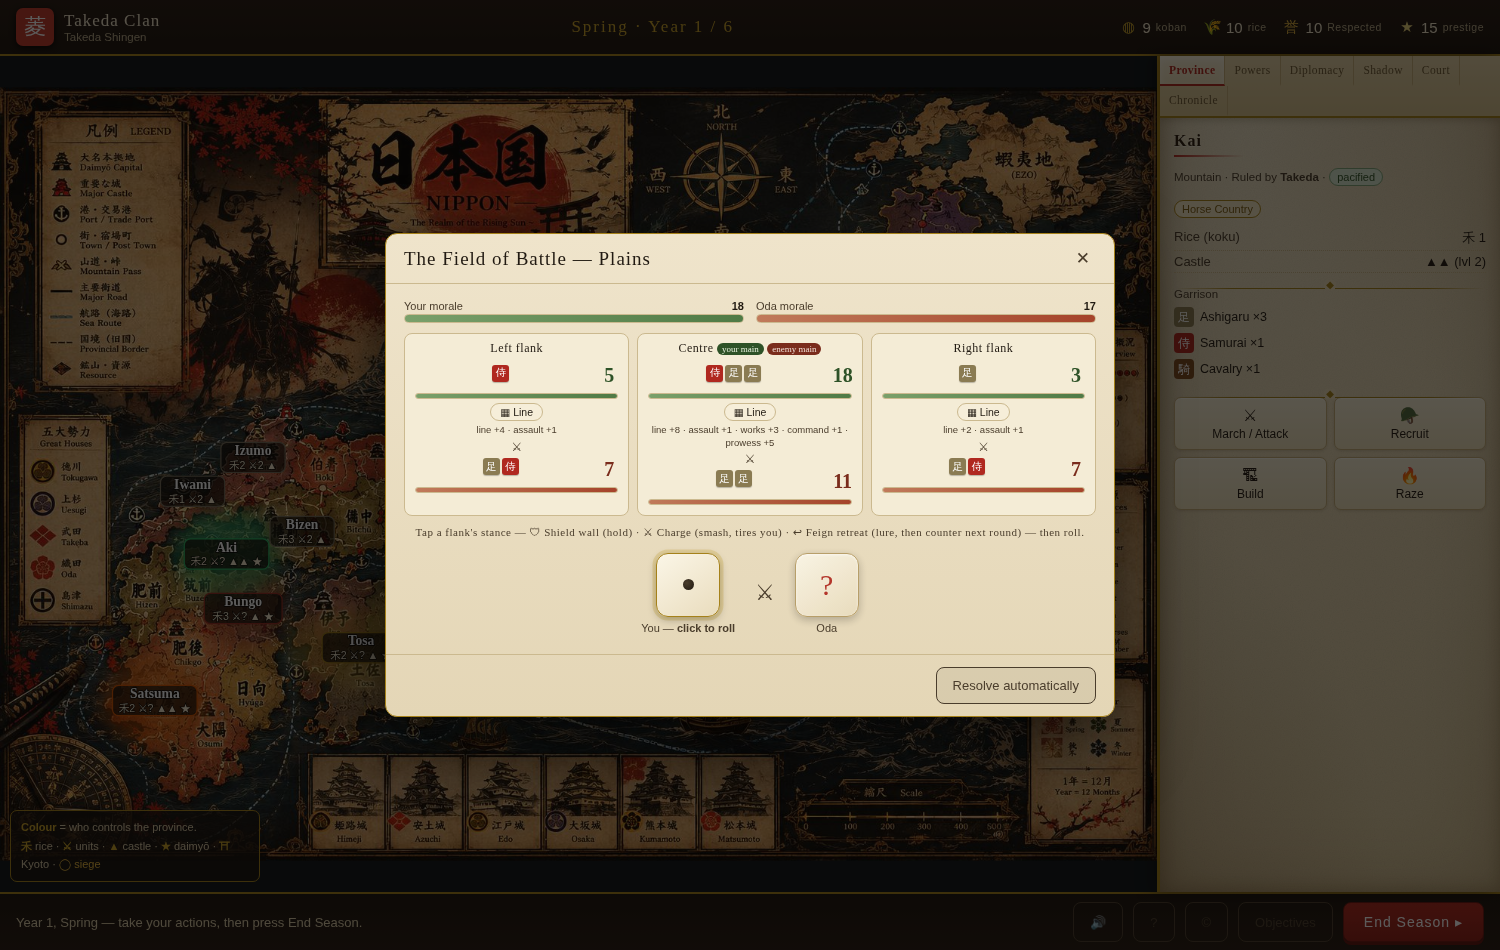
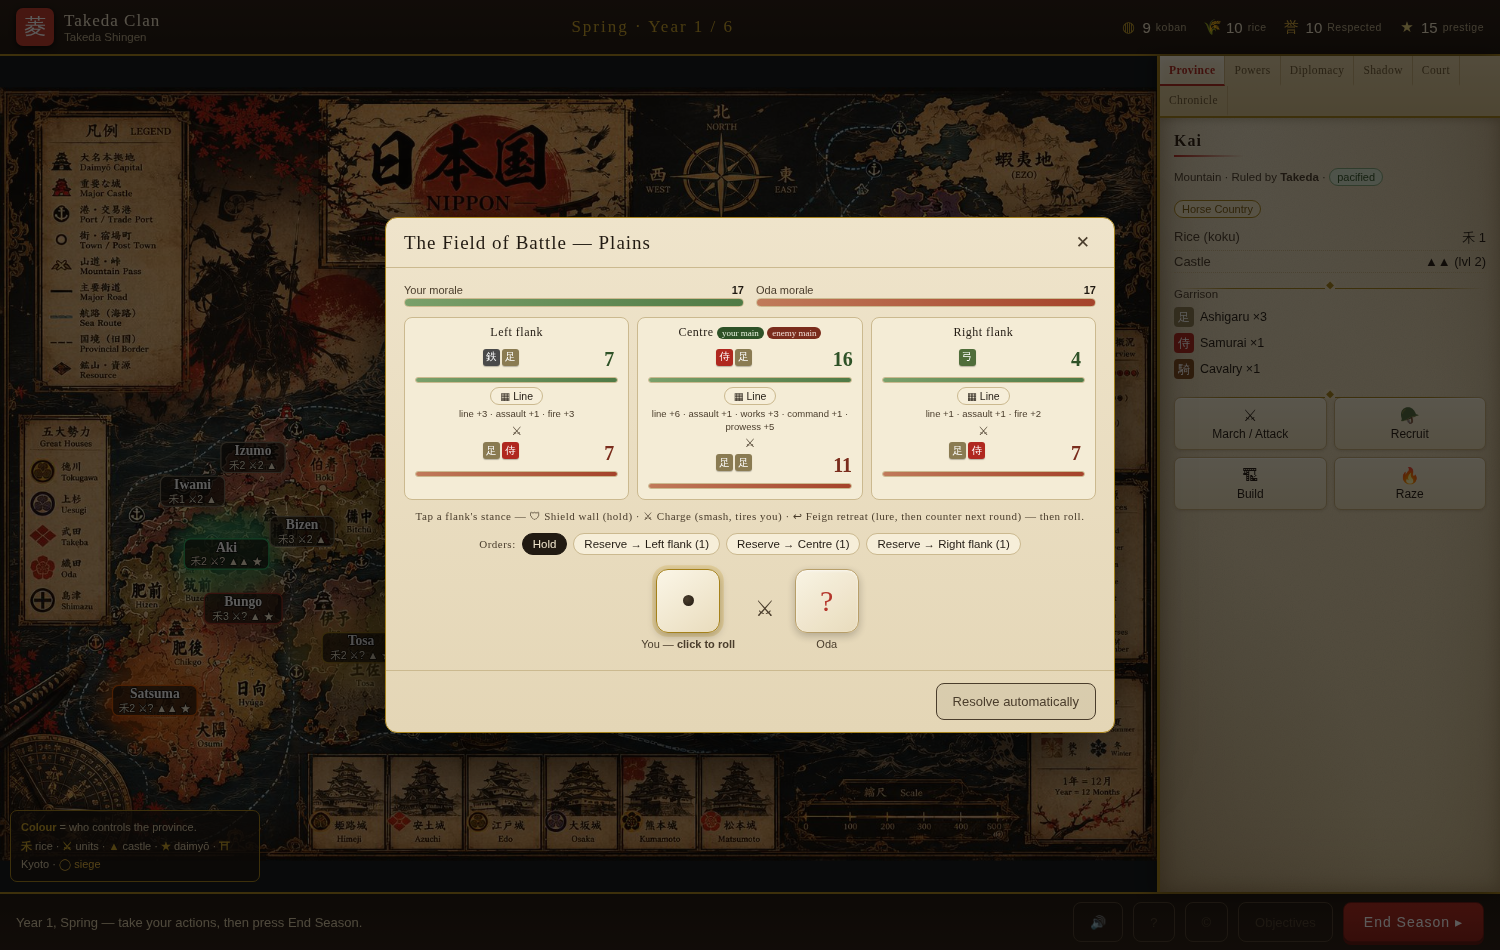
Give each unit a distinct battlefield effect; gunmen fire real volleys
Units are no longer just a strength number — each type does visible work:
- Teppō (gunmen): fire a VOLLEY on dry odd rounds that shakes the enemy flank's
  Nerve (−2 each, +1 for the Teppō clan) and a heavy volley (2+ guns) can fell a
  man outright. Rain silences them.
- Archers: loose arrows every round, a lighter nerve volley (−1 per two bows).
- Samurai: steady the ranks — a flank with samurai loses less Nerve.
- Cavalry: pursue — when a flank routs and you have horse there, extra morale
  damage runs the fugitives down.
- Ashigaru: the mass of the line; Siege: cumbersome afield, deadly at a wall.
The battle log now calls out each volley ("🔫 your Teppō volley crashes in…").

Balance held (even ~36% att / strong 100% / weak 0%); teppō make attackers pay.
Verified: 5 volley mechanics unit-tested, full regression green (359/359, 40-game
stress crash-free, nerve/v2/itest), battle plays clean in-browser, no JS errors.

Claude-Session: https://claude.ai/code/session_01TGTkTHuf1gxX1YhXkXdsoi

Changed region(s): [[0.2453, 0.2137, 0.7667, 0.7021], [0.2453, 0.7021, 0.7667, 0.7937], [0.5213, 0.6411, 0.5827, 0.6716]]

diff --git a/js/battle.js b/js/battle.js
@@ -295,6 +295,7 @@ SR.resolveRound = function (B, dice) {
     const decidedByDice = flip || a.ss === d.ss;  // roll broke a tie or flipped the result
     const loserSteady = (loseSide === "att" ? a.steady : d.steady) || 0;   // redoubt
     const loseUnits = SR.secUnits(B, loseSide, sec), winUnits = SR.secUnits(B, winSide, sec);
+    const loseSam = SR.countType(loseUnits, "samurai") > 0 ? 1 : 0;        // samurai steady the ranks
     let loseCas = Math.min(Math.floor(margin / 4), loseUnits.length);
     if (B.deploy[loseSide]["p" + sec] === "Deep") loseCas = Math.max(0, loseCas - 1);
     const winCas = Math.min(Math.floor(margin / 8), 1, Math.max(0, winUnits.length - 1));
@@ -306,33 +307,56 @@ SR.resolveRound = function (B, dice) {
     if (margin > 0) B.morale[loseSide] -= mLoss;
     B.fatigue.att[sec]++; B.fatigue.def[sec]++;
 
-    // ---- 1066 Nerve: the losing flank's nerve is shaken; break it and it routs ----
+    // ---- 1066 Nerve: the losing flank's nerve is shaken ----
     const loseStance = B.stance[loseSide][sec], winStance = B.stance[winSide][sec];
     let nLoss = Math.min(margin, 6);
     if (loseStance === "shieldwall") nLoss = Math.max(0, nLoss - 2);   // the wall holds firm
-    nLoss = Math.max(0, nLoss - loserSteady);
+    nLoss = Math.max(0, nLoss - loserSteady - loseSam);               // samurai + redoubt steady it
     let feinted = false;
-    if (loseStance === "feign") { nLoss = Math.min(nLoss, 1); pendingFeigns.push({ side: loseSide, sec }); feinted = true; }  // give ground by design, spring next round
+    if (loseStance === "feign") { nLoss = Math.min(nLoss, 1); pendingFeigns.push({ side: loseSide, sec }); feinted = true; }  // give ground by design
     if (margin > 0) B.nerve[loseSide][sec] = Math.max(0, B.nerve[loseSide][sec] - nLoss);
     if (winStance === "charge") B.nerve[winSide][sec] = Math.max(0, B.nerve[winSide][sec] - 1);  // charging is exhausting
     if (loseStance === "charge") B.nerve[loseSide][sec] = Math.max(0, B.nerve[loseSide][sec] - 1);
 
-    let flankRout = false;
-    if (B.nerve[loseSide][sec] <= 0 && SR.secUnits(B, loseSide, sec).length) {
-      flankRout = true; B.flankRouted[loseSide][sec] = true;
-      SR.removeSecCas(B, loseSide, sec, SR.secUnits(B, loseSide, sec).length);  // the flank flees the field
-      B.morale[loseSide] -= 4;
-    }
+    // ---- ranged volleys: gunmen & archers do real work beyond the melee line ----
+    const volley = (fk) => {
+      const u = SR.secUnits(B, fk, sec);
+      const teppo = (!B.wet && B.round % 2 === 1) ? u.filter(x => x.type === "teppo").length : 0;
+      const arch = u.filter(x => x.type === "archers").length;
+      let n = teppo * 2 + Math.floor(arch / 2);
+      if (teppo && B.side[fk].trait === "Teppō") n += 1;              // the gun clan reloads faster
+      return { n, teppo, arch };
+    };
+    const vol = { att: volley("att"), def: volley("def") };
+    ["att", "def"].forEach(fk => {
+      const foe = fk === "att" ? "def" : "att";
+      if (vol[fk].n) B.nerve[foe][sec] = Math.max(0, B.nerve[foe][sec] - vol[fk].n);   // fire shakes their nerve
+      if (vol[fk].teppo >= 2 && SR.secUnits(B, foe, sec).length && SR.chance(0.5)) SR.removeSecCas(B, foe, sec, 1);  // a heavy volley fells a man
+    });
+
+    // ---- flank rout: a flank whose Nerve breaks flees; cavalry pursue the runners ----
+    let flankRout = false, routedSide = null;
+    ["att", "def"].forEach(fk => {
+      const foe = fk === "att" ? "def" : "att";
+      if (!B.flankRouted[fk][sec] && B.nerve[fk][sec] <= 0 && SR.secUnits(B, fk, sec).length) {
+        flankRout = true; routedSide = fk; B.flankRouted[fk][sec] = true;
+        const pursue = SR.countType(SR.secUnits(B, foe, sec), "cavalry") > 0;
+        SR.removeSecCas(B, fk, sec, SR.secUnits(B, fk, sec).length);   // the flank flees the field
+        B.morale[fk] -= 4 + (pursue ? 2 : 0);
+        B.broke[foe] = sec;
+      }
+    });
     const lostFront = SR.secUnits(B, loseSide, sec).length === 0;
     const broke = flankRout || margin >= 8 + loserSteady * 2 || lostFront;
-    if (broke) { if (B.deploy[loseSide]["p" + sec] === "Wide") B.morale[loseSide] -= 2; B.broke[winSide] = sec; }
+    if (broke && !B.broke[winSide] && !flankRout) { if (B.deploy[loseSide]["p" + sec] === "Wide") B.morale[loseSide] -= 2; B.broke[winSide] = sec; }
     results.push({ sector: sec, name: SR.sectorName[sec], attSS: a.ss, defSS: d.ss, attParts: a.parts, defParts: d.parts,
-      dieA, dieD, totA, totD, margin, winner: winSide, loseCas, broke, flip, decidedByDice, feinted, flankRout,
+      dieA, dieD, totA, totD, margin, winner: winSide, loseCas, broke, flip, decidedByDice, feinted, flankRout, routedSide,
+      volley: { att: vol.att.n, def: vol.def.n }, guns: { att: vol.att.teppo, def: vol.def.teppo }, arch: { att: vol.att.arch, def: vol.def.arch },
       attStance: B.stance.att[sec], defStance: B.stance.def[sec],
       attNerve: B.nerve.att[sec], defNerve: B.nerve.def[sec], attNerve0: B.nerve0.att[sec], defNerve0: B.nerve0.def[sec],
       text: `${SR.sectorName[sec]}: ${totA} vs ${totD} — ${winSide === "att" ? "you" : "they"}` +
             `${margin === 0 ? " hold, a bloody stand-off" : (feinted ? " give ground — a feigned retreat" : " win by " + margin) + (loseCas ? `, ${loseSide === "att" ? "you lose" : "they lose"} ${loseCas}` : "")}` +
-            `${flankRout ? " — the flank's nerve breaks and it routs!" : (broke ? " — the line breaks!" : "")}.` });
+            `${flankRout ? " — a flank's nerve breaks and it routs!" : (broke ? " — the line breaks!" : "")}.` });
   }
   // feints consumed this round; new ones set for next round's counter
   B.feign = { att: { L: 0, C: 0, R: 0 }, def: { L: 0, C: 0, R: 0 } };

diff --git a/js/ui.js b/js/ui.js
@@ -960,6 +960,13 @@ UI.runBattle = function (report, onDone) {
           narr.push({ cls: "dice", text: meFeinted ? "  ↩ you feign retreat — fall back and set the trap for next round." : "  ↩ they feign retreat, giving ground on purpose." }); }
         if (x.decidedByDice && !x.feinted) narr.push({ cls: youWon ? "dice good" : "dice bad",
           text: youWon ? "  🎲 the dice won you this flank — the stronger line would have lost!" : "  🎲 the dice cost you this flank." });
+        // ranged volleys — gunmen & archers do visible work
+        const yg = humanSide === "att" ? x.guns.att : x.guns.def, ya = humanSide === "att" ? x.arch.att : x.arch.def;
+        const fg = humanSide === "att" ? x.guns.def : x.guns.att, fa = humanSide === "att" ? x.arch.def : x.arch.att;
+        if (yg) narr.push({ cls: "good", text: `  🔫 your Teppō volley crashes into the ${x.name} — gunsmoke, and their nerve reels.` });
+        else if (ya) narr.push({ cls: "good", text: `  🏹 your archers rain arrows across the ${x.name}.` });
+        if (fg) narr.push({ cls: "bad", text: `  🔫 their Teppō volley tears into your ${x.name} — men fall, nerves shake.` });
+        else if (fa) narr.push({ cls: "bad", text: `  🏹 their archers loose a hail of arrows on your ${x.name}.` });
       });
       rolling = false; order = null; stance = { L: "line", C: "line", R: "line" }; phase = "shown";
       render();
